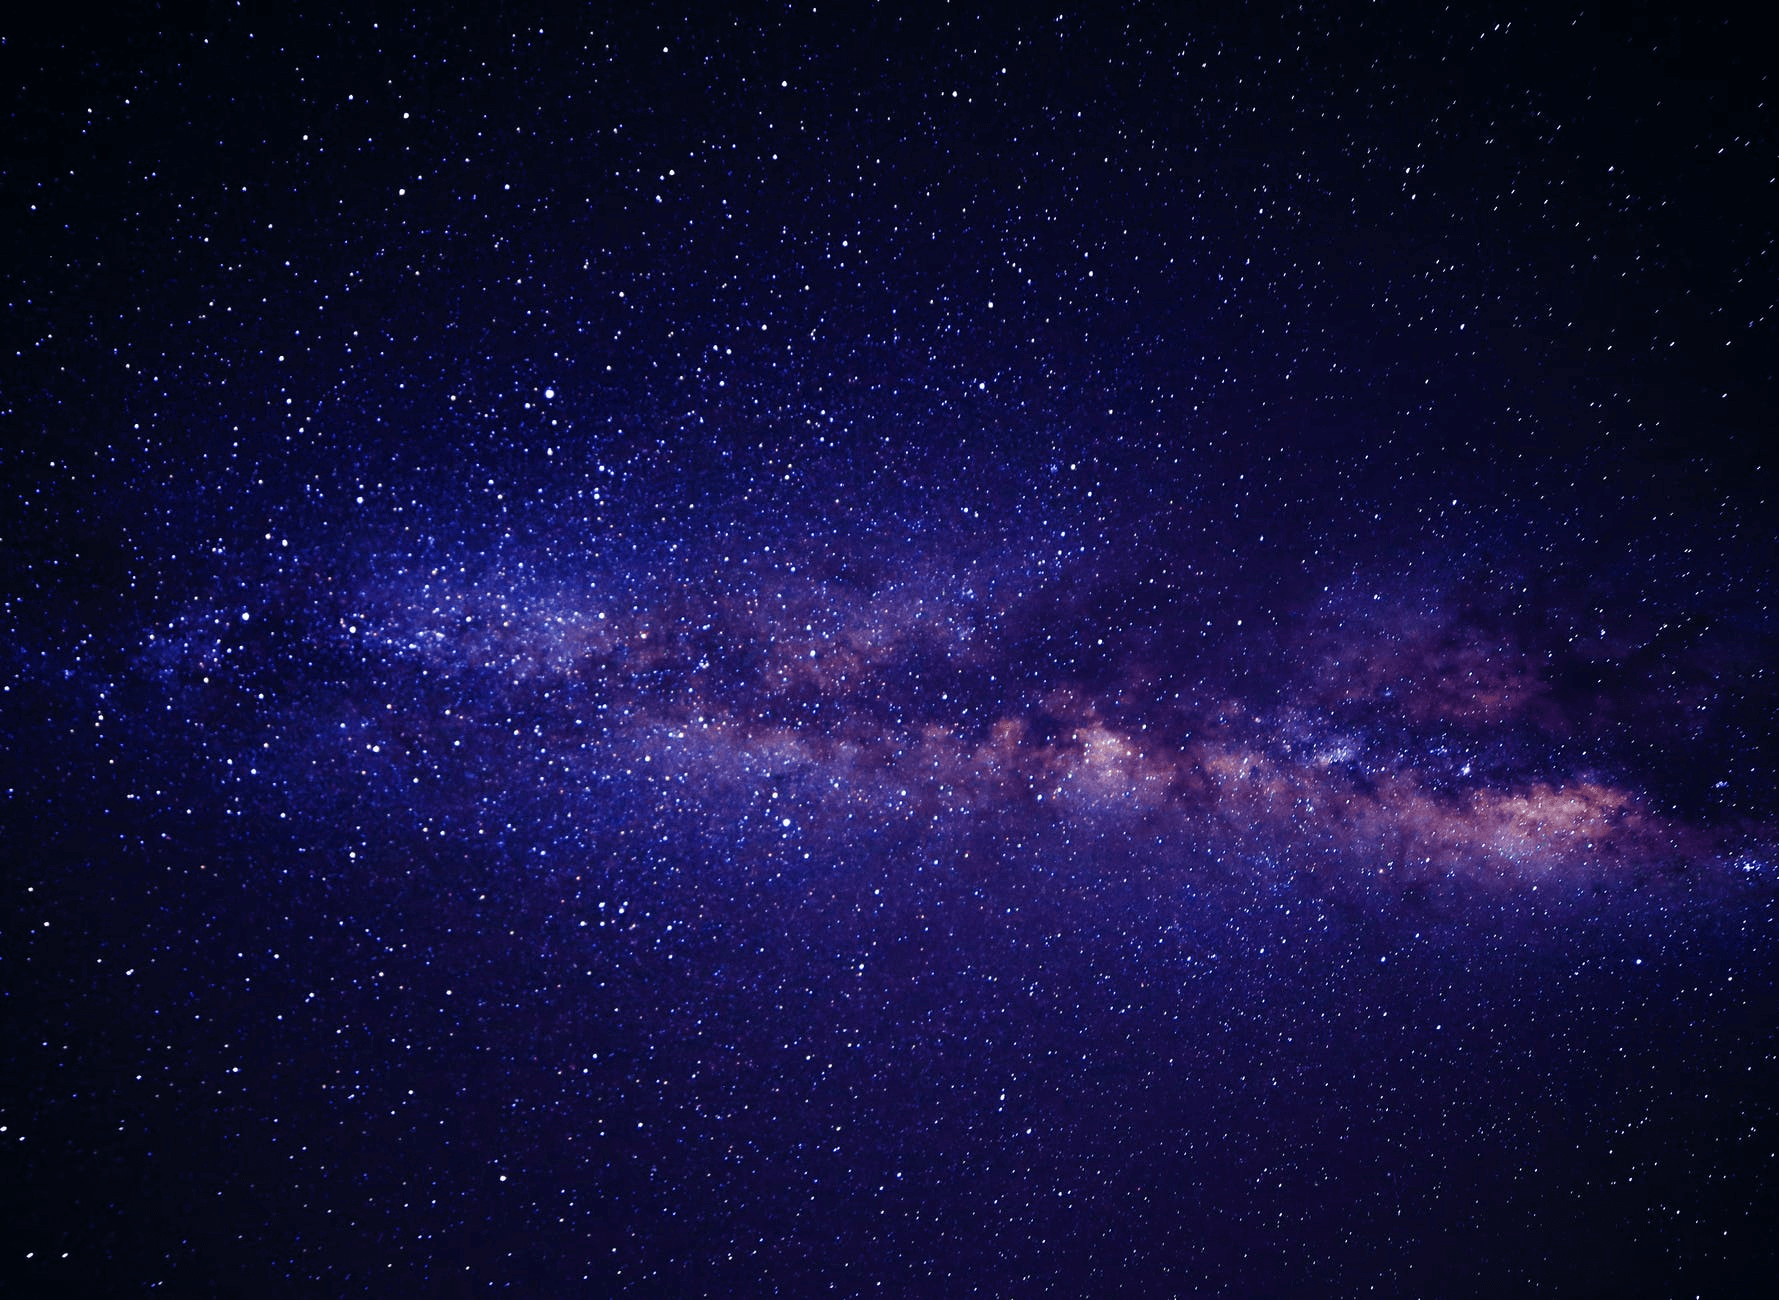
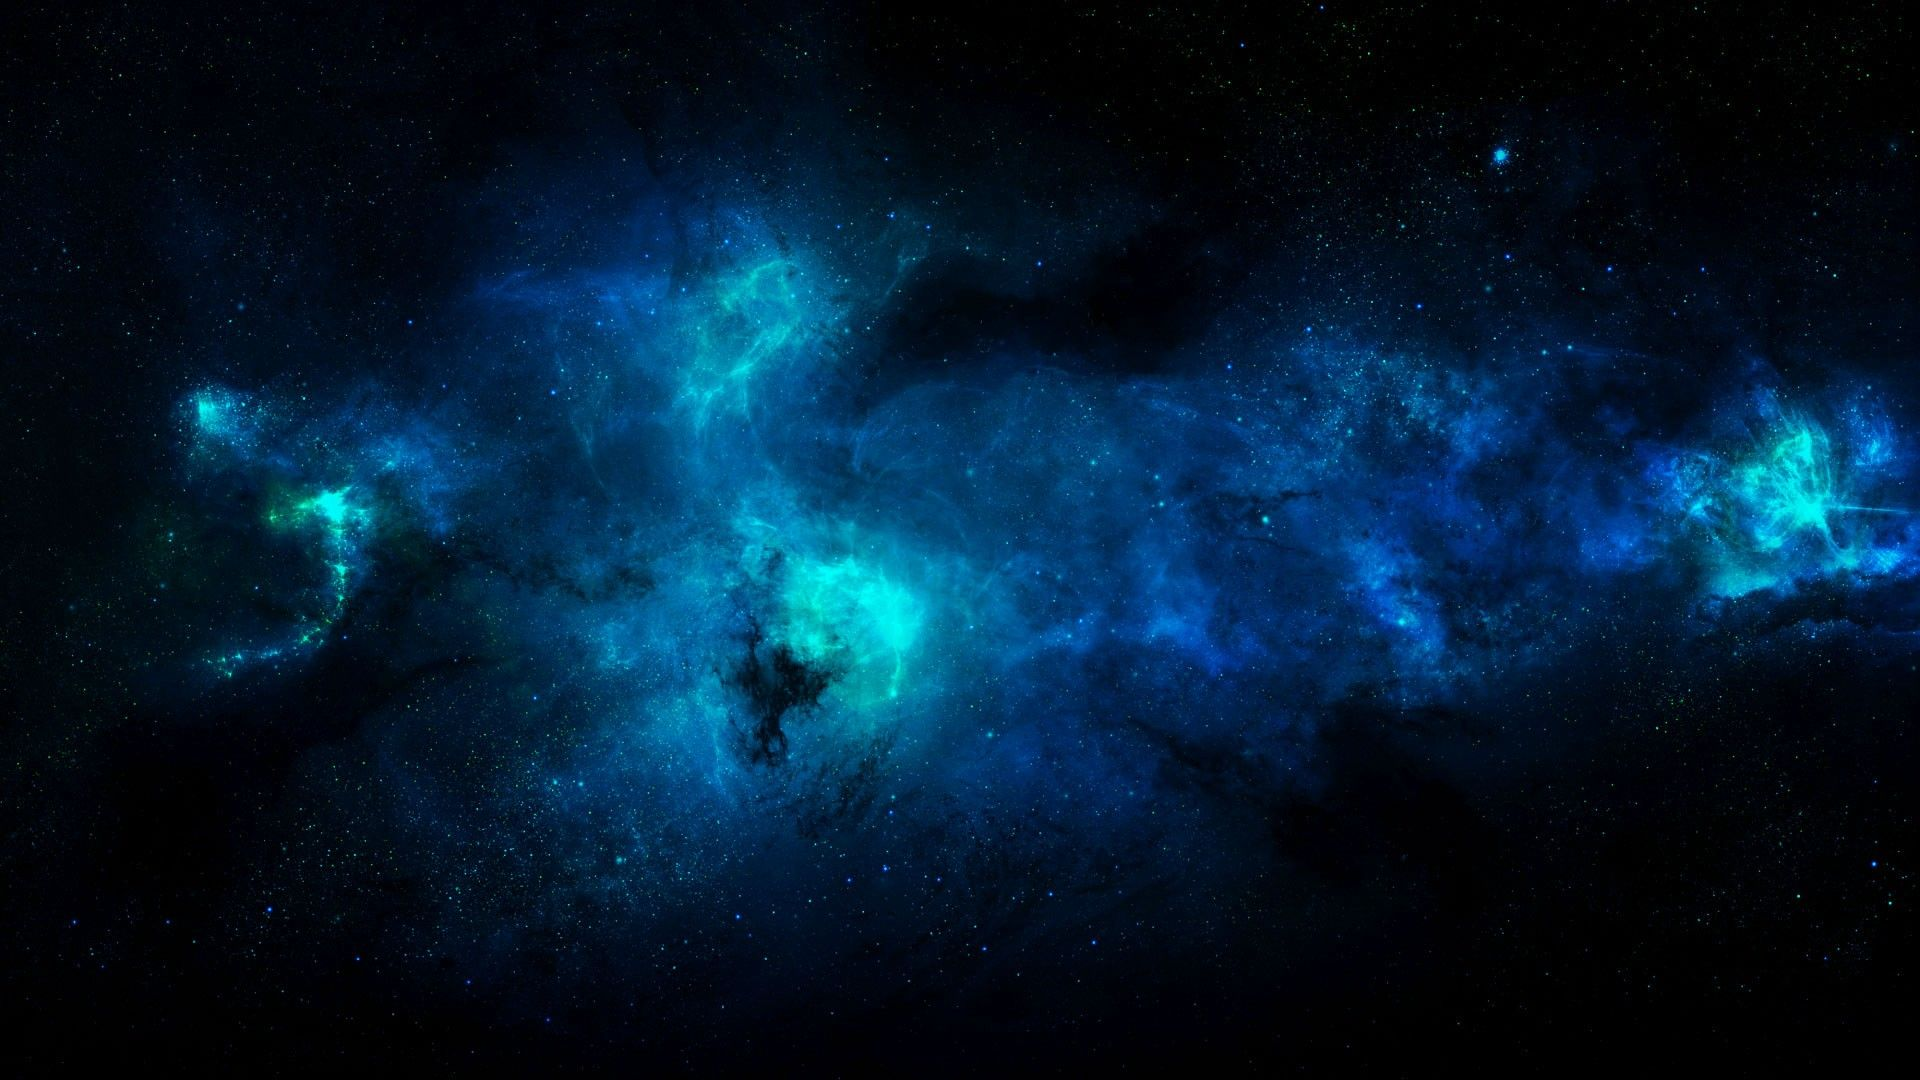
changing background, stars and torus color

diff --git a/main.js b/main.js
@@ -29,12 +29,13 @@ camera.position.setZ(30);
 //making the geometry, in this case the Torus
 const geometry = new THREE.TorusGeometry(5, 1, 16, 100);
 //we then set the materia of the object
-const material = new THREE.MeshStandardMaterial({color: 0xE9967A});
+const material = new THREE.MeshStandardMaterial({color: 0x1F618D});
 //to make the object 'alive' we mesh the geomettry of it with the material
 const torus = new THREE.Mesh(geometry, material);
 torus.position.set(30, 15, 0);
 scene.add(torus);
 
+//creating a box and putting an image as texture
 const sufienTexture = new THREE.TextureLoader().load('imagine_prof.jpeg');
 const image = new THREE.Mesh(
     new THREE.BoxGeometry(5, 5, 5),
@@ -48,7 +49,7 @@ scene.add(image);
 //in this case we add a lot of Icosahedron to make them look like stars
 function addStar() {
 
-    const geometry = new THREE.OctahedronGeometry(0.15, 0);
+    const geometry = new THREE.OctahedronGeometry(0.07, 0);
     const material = new THREE.MeshBasicMaterial(0xffffff);
     const star = new THREE.Mesh(geometry, material);
     
@@ -68,9 +69,9 @@ function addStar() {
 
 //creating and array and filling it with the addStar function
 //in random position ass we saw early in the addStar function
-Array(1300).fill().forEach(addStar);
+Array(700).fill().forEach(addStar);
 
-const spaceTexture = new THREE.TextureLoader().load('space1.jpg');
+const spaceTexture = new THREE.TextureLoader().load('space.jpg');
 scene.background = spaceTexture;
 
 
